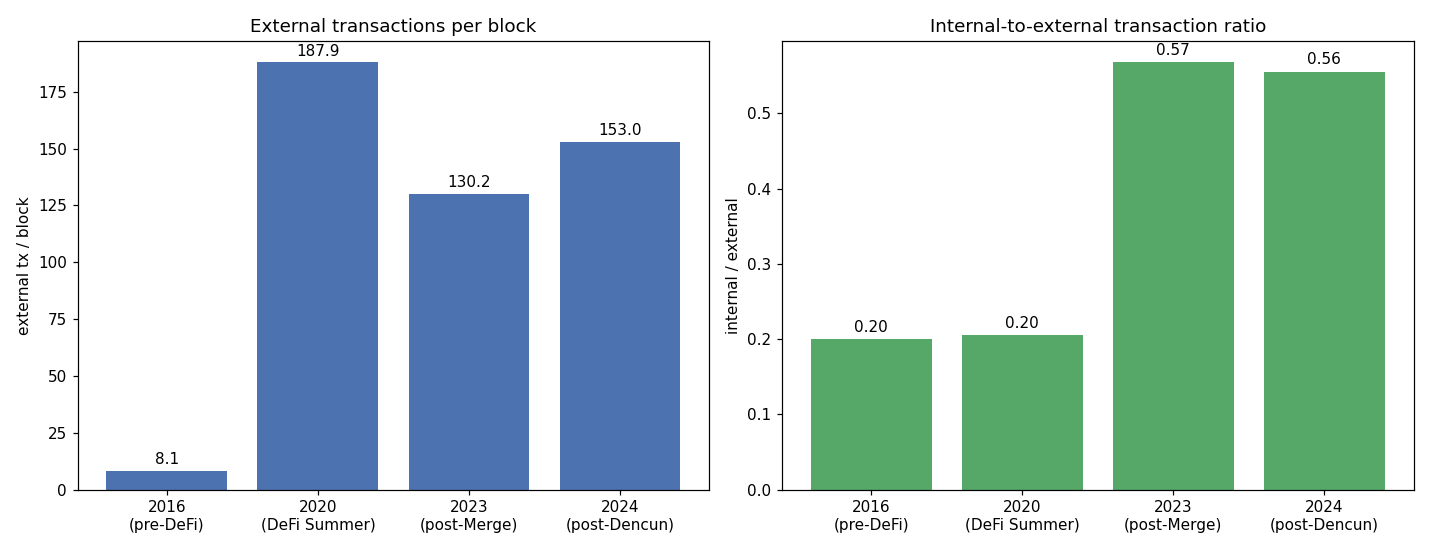
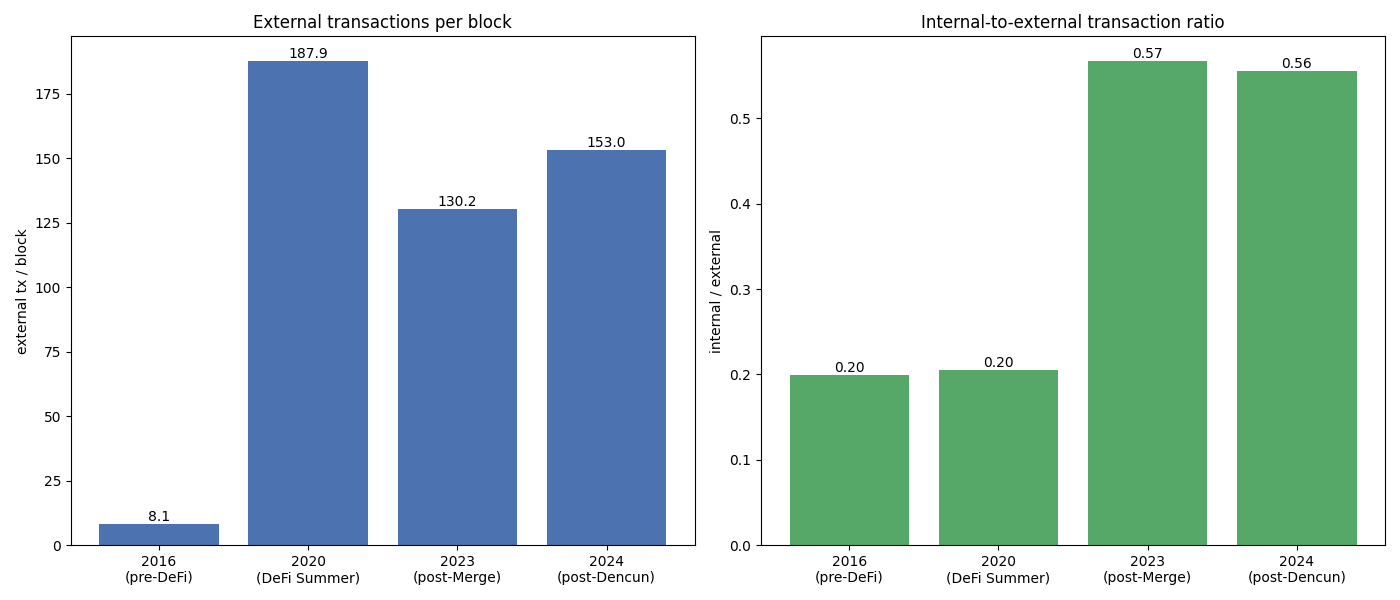
scripts: add gen_paper_figures.py — regenerate fig4-8 from result CSVs

diff --git a/scripts/gen_paper_figures.py b/scripts/gen_paper_figures.py
@@ -1,0 +1,146 @@
+"""
+Regenerate the paper's figures (fig4–fig8) from the result artifacts under
+`data/results/`. Run after an experiment so the CSVs/summary.json exist.
+
+Figures:
+  fig4  within-2024, top-10 by total ETH received, across the block-count ladder
+  fig5  within-2024, top-10 by transaction-participation %, across the ladder
+  fig6  cross-era volume: external tx/block (left) + internal/external ratio (right)
+  fig7  cross-era, top-10 by participation %, at 10,000-block windows
+  fig8  cross-era, top-10 by total ETH received, at 10,000-block windows
+
+fig4/5/7/8 are rank-vs-value line charts (one line per series); fig6 is a paired
+bar chart from each era's summary.json. Outputs overwrite docs/paper/figures/*.png.
+
+Usage:
+    uv run python scripts/gen_paper_figures.py
+"""
+
+import json
+from pathlib import Path
+
+import matplotlib.pyplot as plt
+import pandas as pd
+
+from ether.experiments.eras import LADDER
+
+ROOT = Path(__file__).resolve().parents[1]
+RESULTS = ROOT / "data" / "results"
+FIGDIR = ROOT / "docs" / "paper" / "figures"
+
+CANON = "recent_2024"          # within-era figures use the canonical 2024 window
+TOP = max(LADDER)              # cross-era figures use the top (10,000-block) window
+N = 10                         # top-N accounts per ranking
+
+# Era display metadata. Cross-era *line* charts (fig7/8) order series
+# alphabetically by name (matplotlib default color cycle then matches the
+# committed figures); the fig6 bar chart orders eras chronologically.
+ERA_META = {
+    "early_2016":       {"year": "2016", "phase": "pre-DeFi",     "start": 2_000_000},
+    "defi_summer_2020": {"year": "2020", "phase": "DeFi Summer",  "start": 10_700_000},
+    "post_merge_2023":  {"year": "2023", "phase": "post-Merge",   "start": 17_000_000},
+    "recent_2024":      {"year": "2024", "phase": "post-Dencun",  "start": 20_512_878},
+}
+
+
+def _csv(era: str, n: int, rel: str) -> pd.DataFrame | None:
+    p = RESULTS / era / str(n) / rel
+    return pd.read_csv(p) if p.exists() else None
+
+
+def _line_chart(series, value_col, y_label, out, legend_title, series_fmt):
+    """Rank-vs-value line chart, one line per (label, dataframe) in `series`."""
+    fig, ax = plt.subplots(figsize=(12, 6))
+    for label, df in series:
+        if df is None or df.empty:
+            continue
+        d = df.head(N).reset_index(drop=True)
+        ax.plot(range(1, len(d) + 1), d[value_col], marker="o", label=series_fmt(label))
+    ax.set_xlabel("Rank")
+    ax.set_ylabel(y_label)
+    ax.legend(title=legend_title)
+    ax.grid(True)
+    fig.tight_layout()
+    fig.savefig(out)
+    plt.close(fig)
+    print(f"wrote {out.relative_to(ROOT)}")
+
+
+def within_era_figures():
+    # fig4 — top received across the ladder
+    series = [(n, _csv(CANON, n, "query_1/query_1_1.csv")) for n in LADDER]
+    _line_chart(series, "total_received", "Total ETH Received",
+                FIGDIR / "fig4_within2024_received.png",
+                "Blocks", lambda n: f"{n} blocks")
+
+    # fig5 — participation % across the ladder
+    series = [(n, _csv(CANON, n, "query_2/query_2_3.csv")) for n in LADDER]
+    _line_chart(series, "total_percentage", "% of transaction participations",
+                FIGDIR / "fig5_within2024_participation.png",
+                "Blocks", lambda n: f"{n} blocks")
+
+
+def cross_era_line_figures():
+    eras = sorted(ERA_META)  # alphabetical — matches the committed figures' colors
+
+    # fig7 — participation % across eras at the top window
+    series = [(e, _csv(e, TOP, "query_2/query_2_3.csv")) for e in eras]
+    _line_chart(series, "total_percentage", "% of transaction participations",
+                FIGDIR / "fig7_crossera_participation.png",
+                "Era", lambda e: e)
+
+    # fig8 — top received across eras at the top window
+    series = [(e, _csv(e, TOP, "query_1/query_1_1.csv")) for e in eras]
+    _line_chart(series, "total_received", "Total ETH Received",
+                FIGDIR / "fig8_crossera_received.png",
+                "Era", lambda e: e)
+
+
+def cross_era_volume_figure():
+    """fig6 — external tx/block and internal/external ratio, per era (chronological)."""
+    eras = sorted(ERA_META, key=lambda e: ERA_META[e]["start"])
+    labels, tx_per_block, ratio = [], [], []
+    for e in eras:
+        p = RESULTS / e / "summary.json"
+        if not p.exists():
+            continue
+        s = json.loads(p.read_text())
+        m = ERA_META[e]
+        labels.append(f"{m['year']}\n({m['phase']})")
+        tx_per_block.append(s["external_tx"] / s["blocks"])
+        ratio.append(s["internal_tx"] / s["external_tx"])
+
+    fig, (axl, axr) = plt.subplots(1, 2, figsize=(14, 6))
+
+    axl.bar(labels, tx_per_block, color="#4c72b0")
+    axl.set_title("External transactions per block")
+    axl.set_ylabel("external tx / block")
+    for i, v in enumerate(tx_per_block):
+        axl.text(i, v, f"{v:.1f}", ha="center", va="bottom")
+
+    axr.bar(labels, ratio, color="#55a868")
+    axr.set_title("Internal-to-external transaction ratio")
+    axr.set_ylabel("internal / external")
+    for i, v in enumerate(ratio):
+        axr.text(i, v, f"{v:.2f}", ha="center", va="bottom")
+
+    fig.tight_layout()
+    out = FIGDIR / "fig6_cross_era_volume.png"
+    fig.savefig(out)
+    plt.close(fig)
+    print(f"wrote {out.relative_to(ROOT)}")
+
+
+def main():
+    if not RESULTS.is_dir():
+        raise FileNotFoundError(
+            f"No results at {RESULTS}. Run scripts/run_experiments.py first."
+        )
+    FIGDIR.mkdir(parents=True, exist_ok=True)
+    within_era_figures()
+    cross_era_volume_figure()
+    cross_era_line_figures()
+
+
+if __name__ == "__main__":
+    main()

diff --git a/README.md b/README.md
@@ -94,6 +94,9 @@ The manuscript source is `docs/paper/paper_v2.md`; the `.docx` and the Appendix 
 tables are derived from it and from the result CSVs.
 
 ```bash
+# Figures fig4–8 (from data/results/ CSVs + summary.json) -> docs/paper/figures/:
+uv run python scripts/gen_paper_figures.py
+
 # Appendix A tables (from data/results/ CSVs) -> docs/paper/appendix_tables.md,
 # whose content is embedded into the manuscript's Appendix A:
 uv run python scripts/gen_appendix_tables.py
@@ -104,8 +107,8 @@ uv run python scripts/gen_appendix_tables.py
 cd docs/paper && pandoc paper_v2.md -o paper_v2.docx --toc
 ```
 
-The figures (`docs/paper/figures/fig4–8.png`) are plotted from the same result CSVs
-via `src/ether/visualization/` and committed as artifacts.
+The figures and tables are derived from `data/results/` (gitignored); run
+`scripts/run_experiments.py` first if that directory is empty.
 
 ## Experiment design (ADR-0003)
 